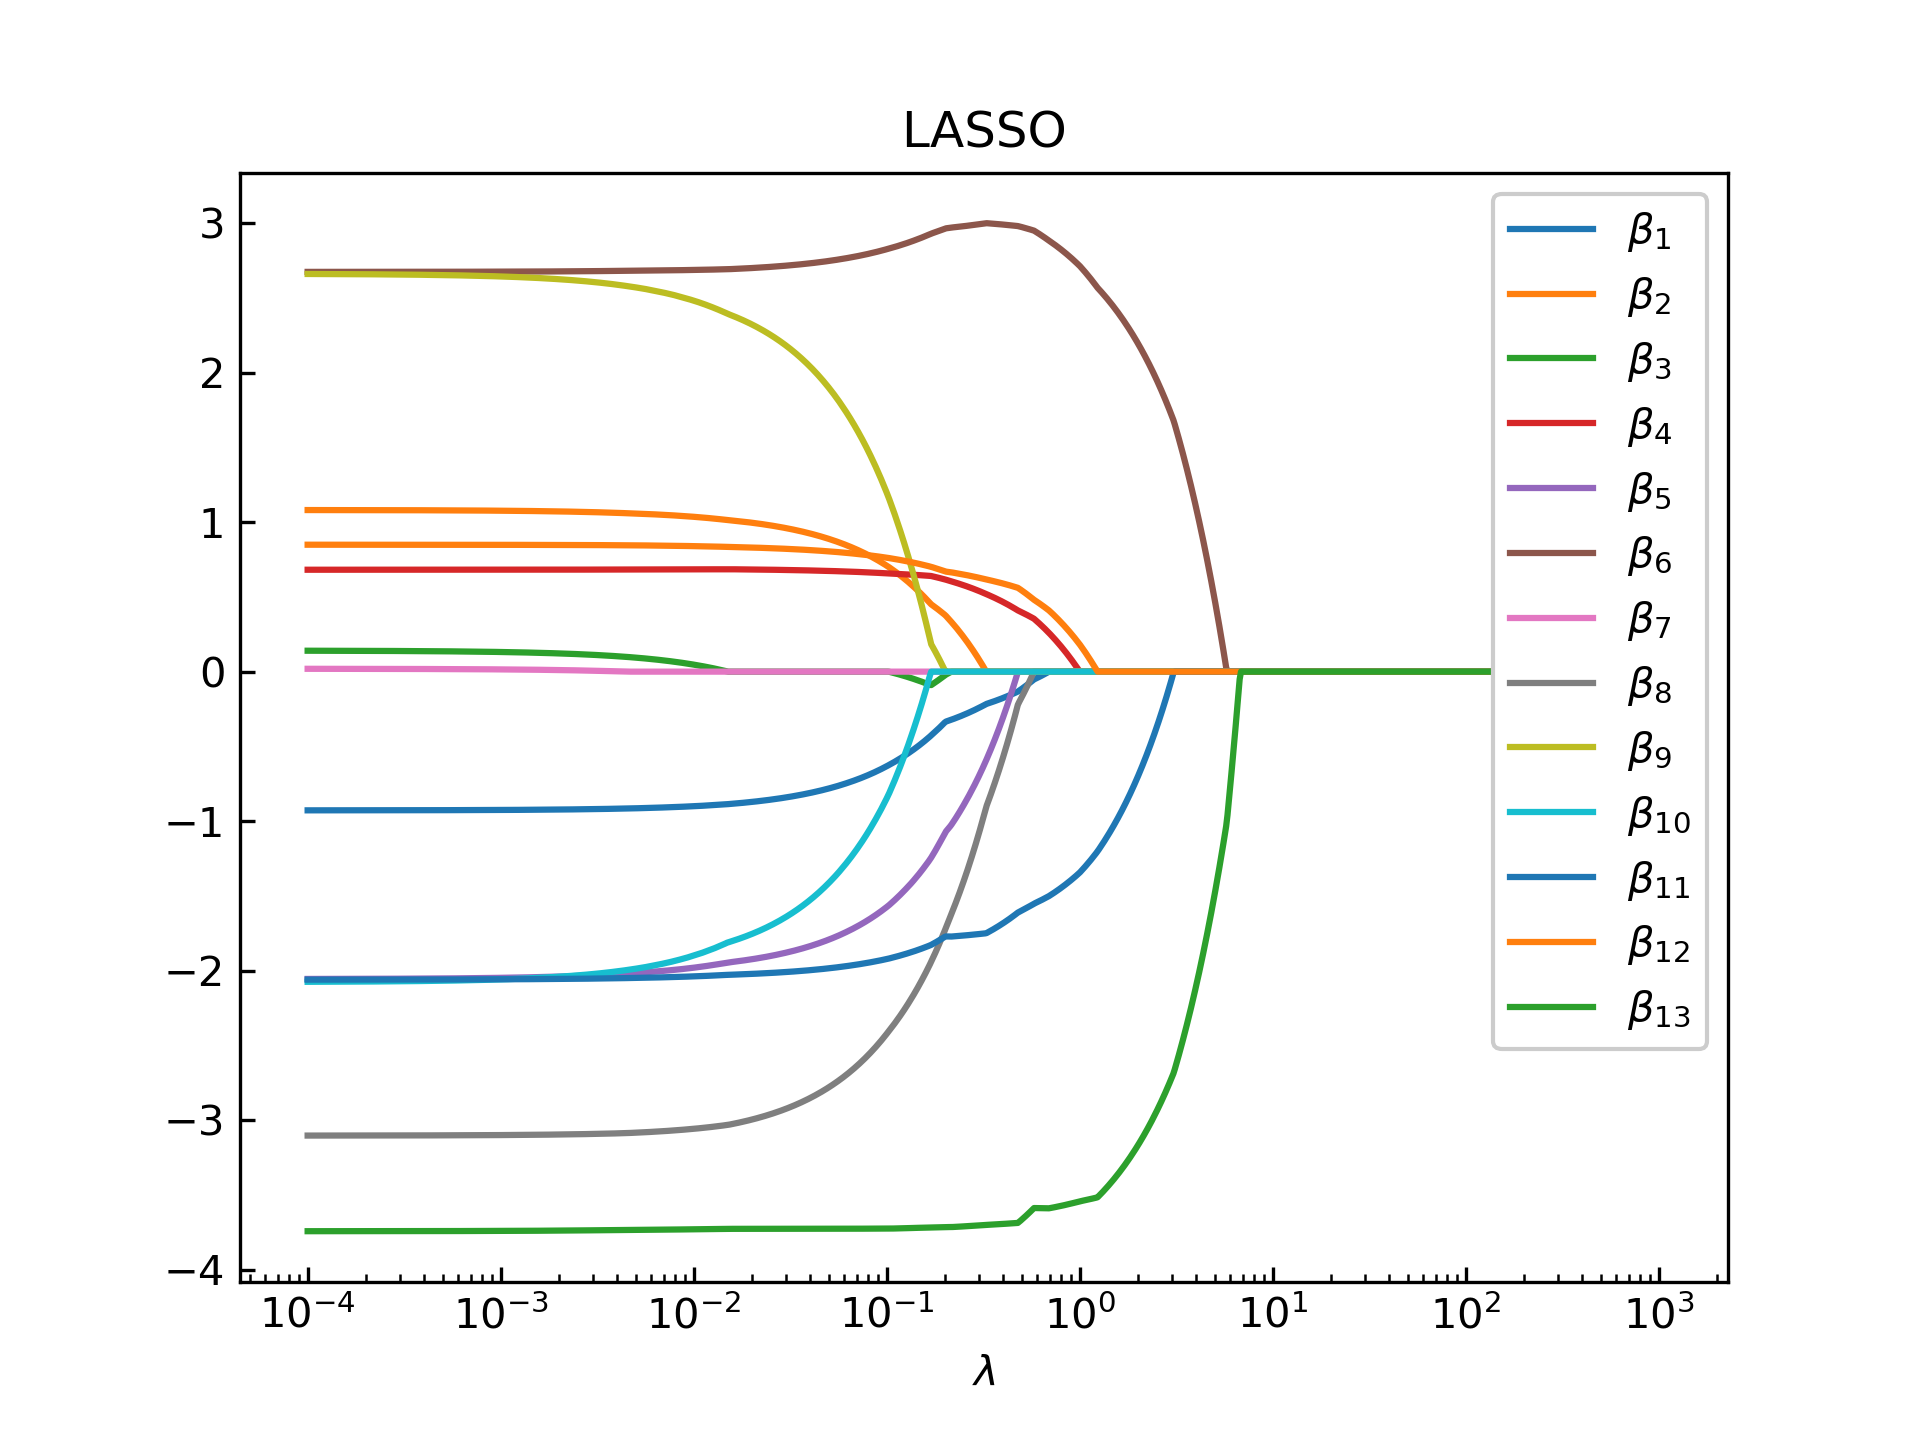
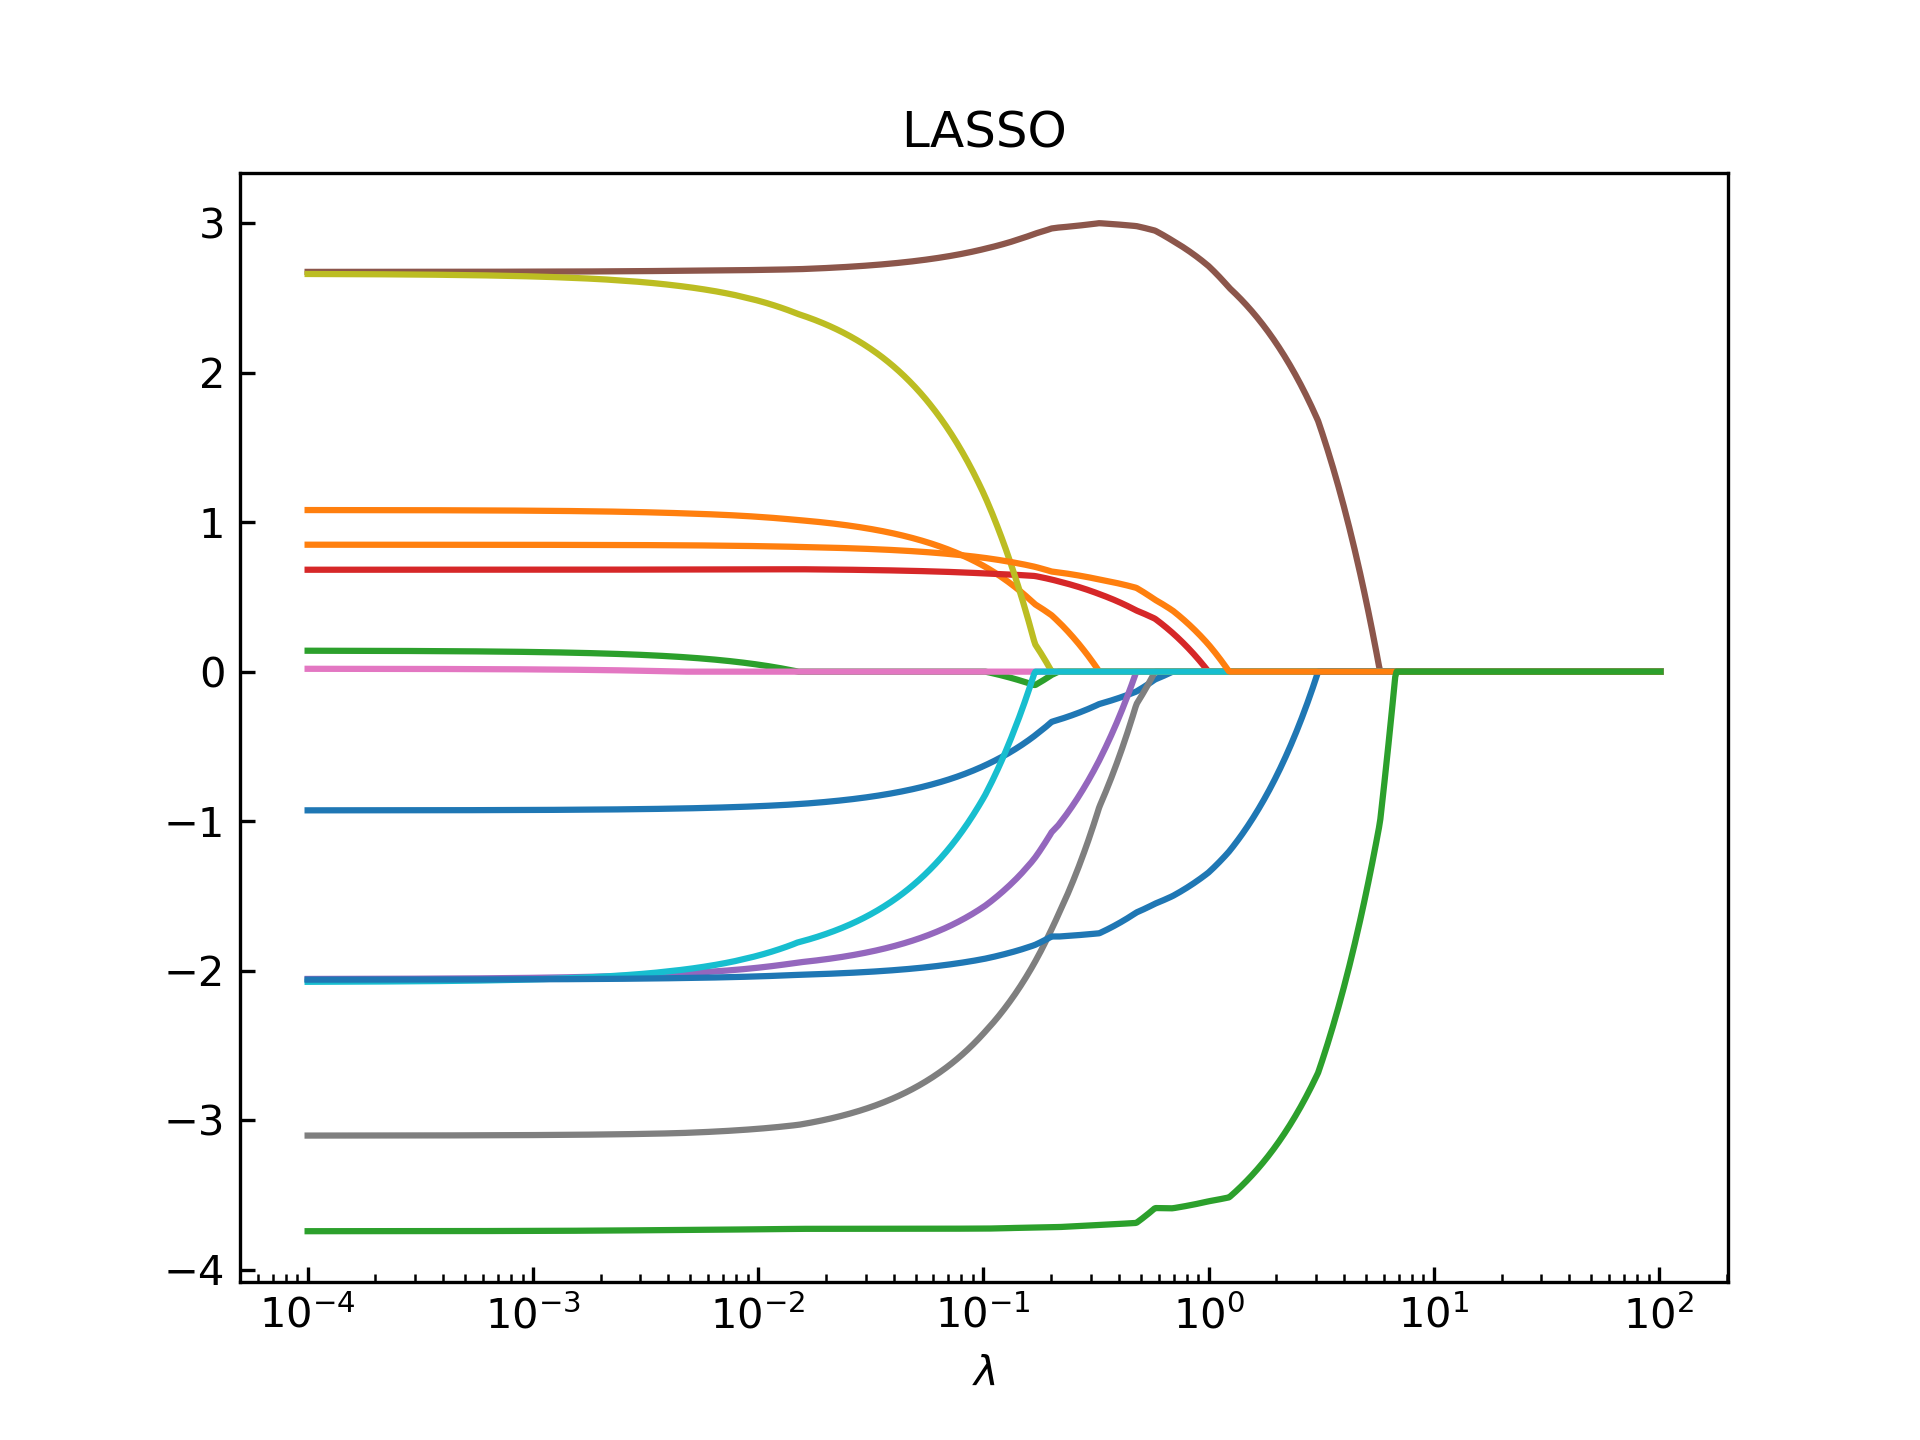
Updated

diff --git a/lambda_vs_beta_Ridge.py b/lambda_vs_beta_Ridge.py
@@ -11,8 +11,8 @@ for j in range( X.shape[ 1 ] ):
     s = X[ : , j ].std( )
     X[ : , j ] = (X[ : , j ] - m ) / s
 
-alpha_begin = 1.0e-4
-alpha_end   = 1.0e+9
+alpha_begin = 1.0e-1
+alpha_end   = 1.0e+6
 numDiv      = 1000
 ratio = np.power( alpha_end / alpha_begin, 1.0 / ( numDiv - 1 ) )
 alpha_current = alpha_begin
@@ -37,7 +37,7 @@ plt.xscale('log')
 for j in range( X.shape[1] ):
     l = '$\\beta_{' + str( j + 1 ) + '}$'
     ax.plot( alphas, [ b[ j ] for b in beta ], label = l )
-ax.legend( loc = 'upper right' )
+#ax.legend( loc = 'upper right' )
 plt.title("Ridge")
 plt.savefig( "lambda_vs_beta_Ridge.png", format = "png", dpi = 300 )
 

diff --git a/lambda_vs_beta_LASSO.py b/lambda_vs_beta_LASSO.py
@@ -12,7 +12,7 @@ for j in range( X.shape[ 1 ] ):
     X[ : , j ] = (X[ : , j ] - m ) / s
 
 alpha_begin = 1.0e-4
-alpha_end   = 1.0e+3
+alpha_end   = 1.0e+2
 numDiv      = 1000
 ratio = np.power( alpha_end / alpha_begin, 1.0 / ( numDiv - 1 ) )
 alpha_current = alpha_begin
@@ -37,7 +37,7 @@ plt.xscale('log')
 for j in range( X.shape[1] ):
     l = '$\\beta_{' + str( j + 1 ) + '}$'
     ax.plot( alphas, [ b[ j ] for b in beta ], label = l )
-ax.legend( loc = 'upper right' )
+#ax.legend( loc = 'upper right' )
 plt.title("LASSO")
 plt.savefig( "lambda_vs_beta_LASSO.png", format = "png", dpi = 300 )
 
